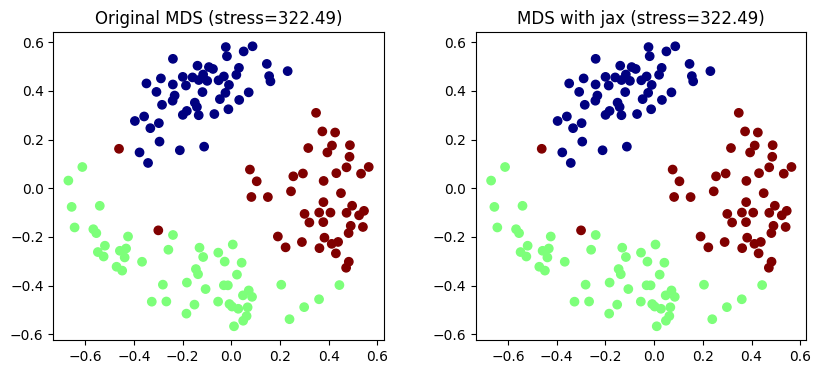
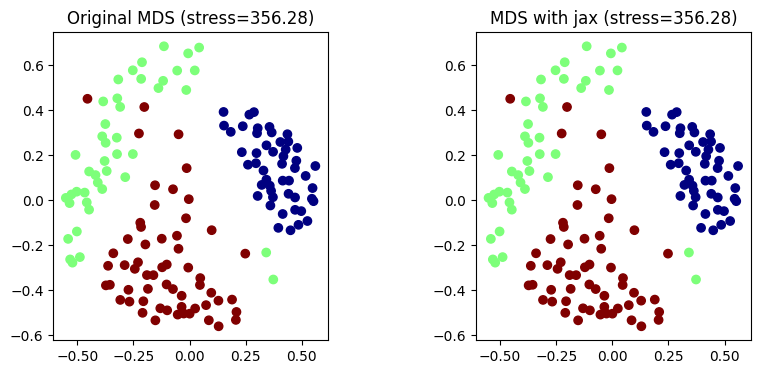
WIP debug tau without beta

diff --git a/pmds/lv_pmds.py b/pmds/lv_pmds.py
@@ -87,17 +87,17 @@ def lv_pmds(
     hard_fix=False,
     method="LV",
     mu0=[0.0, 0.0],
-    beta=10.0,
-    gamma_shape=0.1,
-    gamma_rate=1.0,
-    alpha=0.1,  # contribution of log prior
+    beta=1.0,
+    gamma_shape=5.0,
+    gamma_rate=2.0,
+    alpha=1.0,  # contribution of log prior
 ):
     assert n_components in [2, 4]
 
     # init `mu` and `tau`. Transform unconstrained tau `tau_unc` to  constrained`tau`.
     # https://github.com/tensorflow/probability/issues/703
     key_m, key_tau = jax.random.split(jax.random.PRNGKey(random_state))
-    tau_unc = -4.0 * jnp.abs(jax.random.normal(key_tau, (n_samples,)))
+    tau_unc = jax.random.normal(key_tau, (n_samples,))
     # tau_unc = jnp.ones((n_samples,))
     if init_mu is not None and init_mu.shape == (n_samples, n_components):
         mu = jnp.array(init_mu)
@@ -154,8 +154,8 @@ def lv_pmds(
         )
 
         # accumulate log likelihood and log prior
-        loss0 = float(jnp.mean(loss_lllh))
-        loss1 = float(jnp.mean(loss_log_prior))
+        loss0 = float(jnp.sum(loss_lllh))
+        loss1 = float(jnp.sum(loss_log_prior))
         loss = loss0 + alpha * loss1
 
         all_loss.append(loss)

diff --git a/pmds/config.py b/pmds/config.py
@@ -427,5 +427,16 @@ pre_config = {
             # learning_rate_mds=20,
             batch_size_mds=500,
         ),
+        "digits_mini": dict(
+            dataset_name="digits",
+            n_samples=1000,  # 1797
+            n_components=2,
+            batch_size=0,
+            epochs=100,
+            learning_rate=2.5e-4,
+            random_state=2020,
+            std=False,  # digits already in [0, 1]
+            pca=None,
+        ),
     },
 }

diff --git a/run_pmds.py b/run_pmds.py
@@ -100,7 +100,7 @@ def run_pdms(D, N, args, labels=None):
         f"MDS with jax (stress={s2:,.2f})",
     ]
     plot.compare_scatter(
-        Z0, Z1, None, Z1_std, labels, titles[:-1], out_name=f"{plot_dir}/Z.png"
+        Z0, Z1, None, None, labels, titles[:-1], out_name=f"{plot_dir}/Z.png"
     )
     plot.compare_scatter(
         Z0, Z2, None, None, labels, titles[::2], out_name=f"{plot_dir}/Zjax.png"
